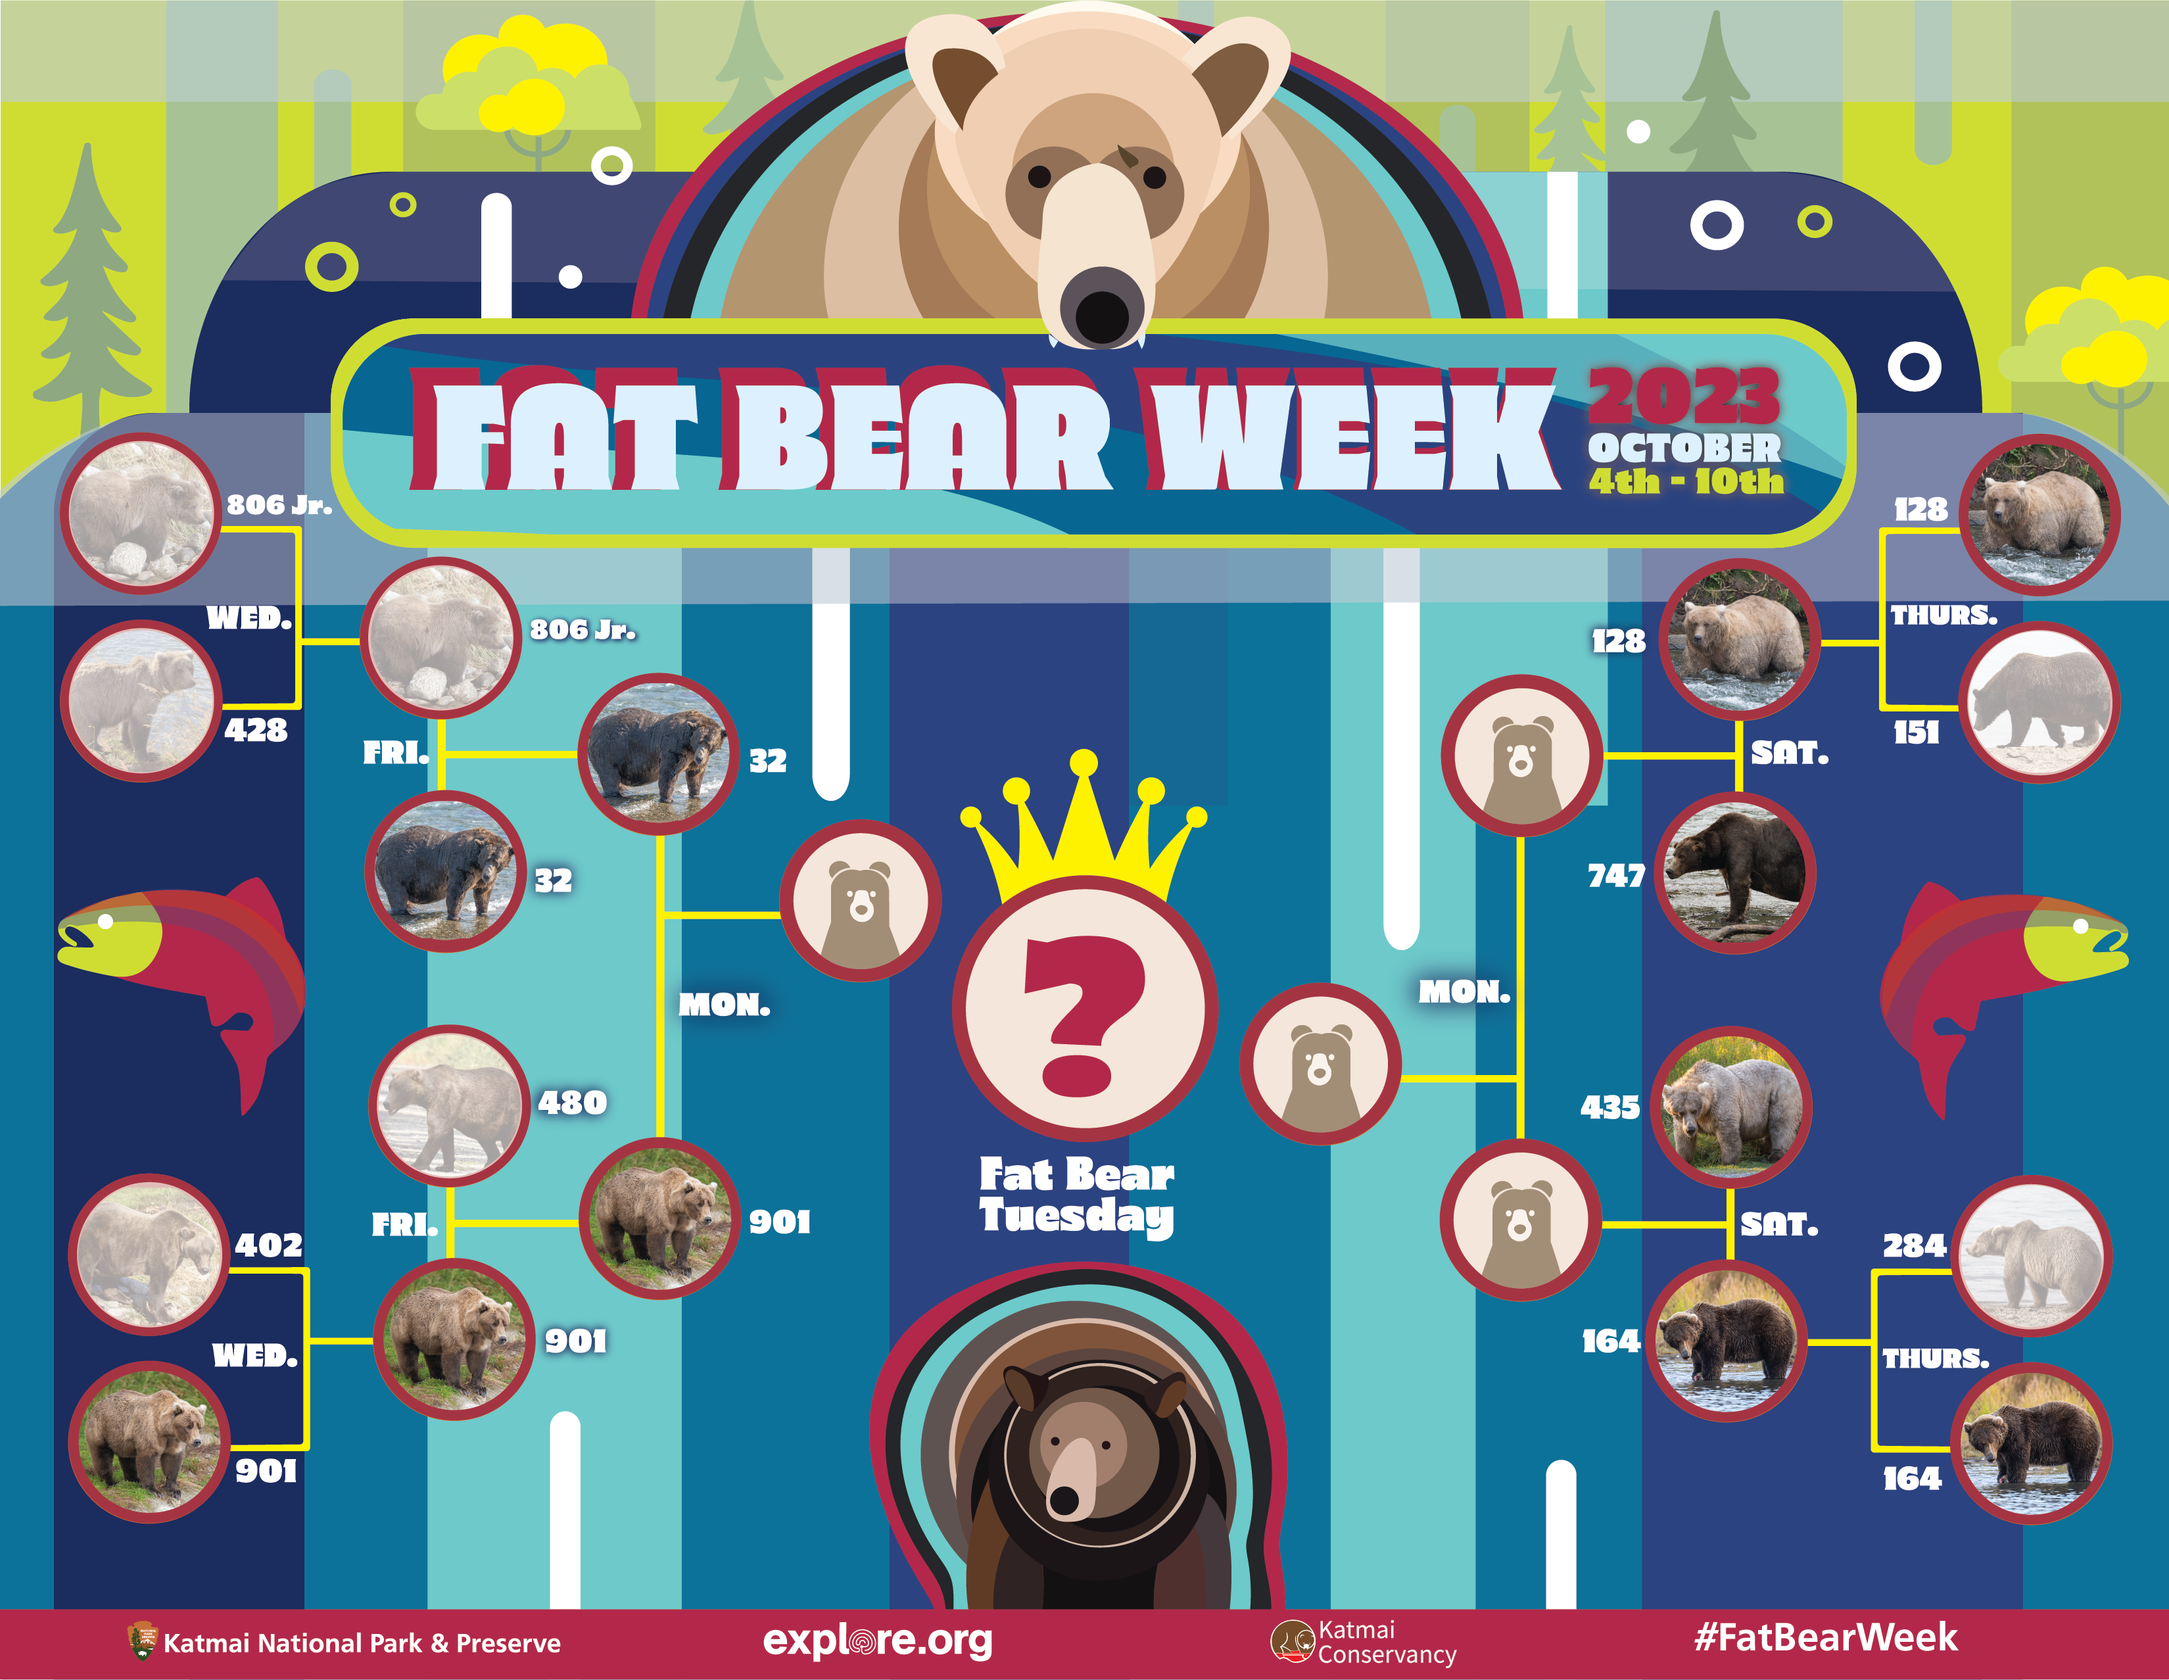
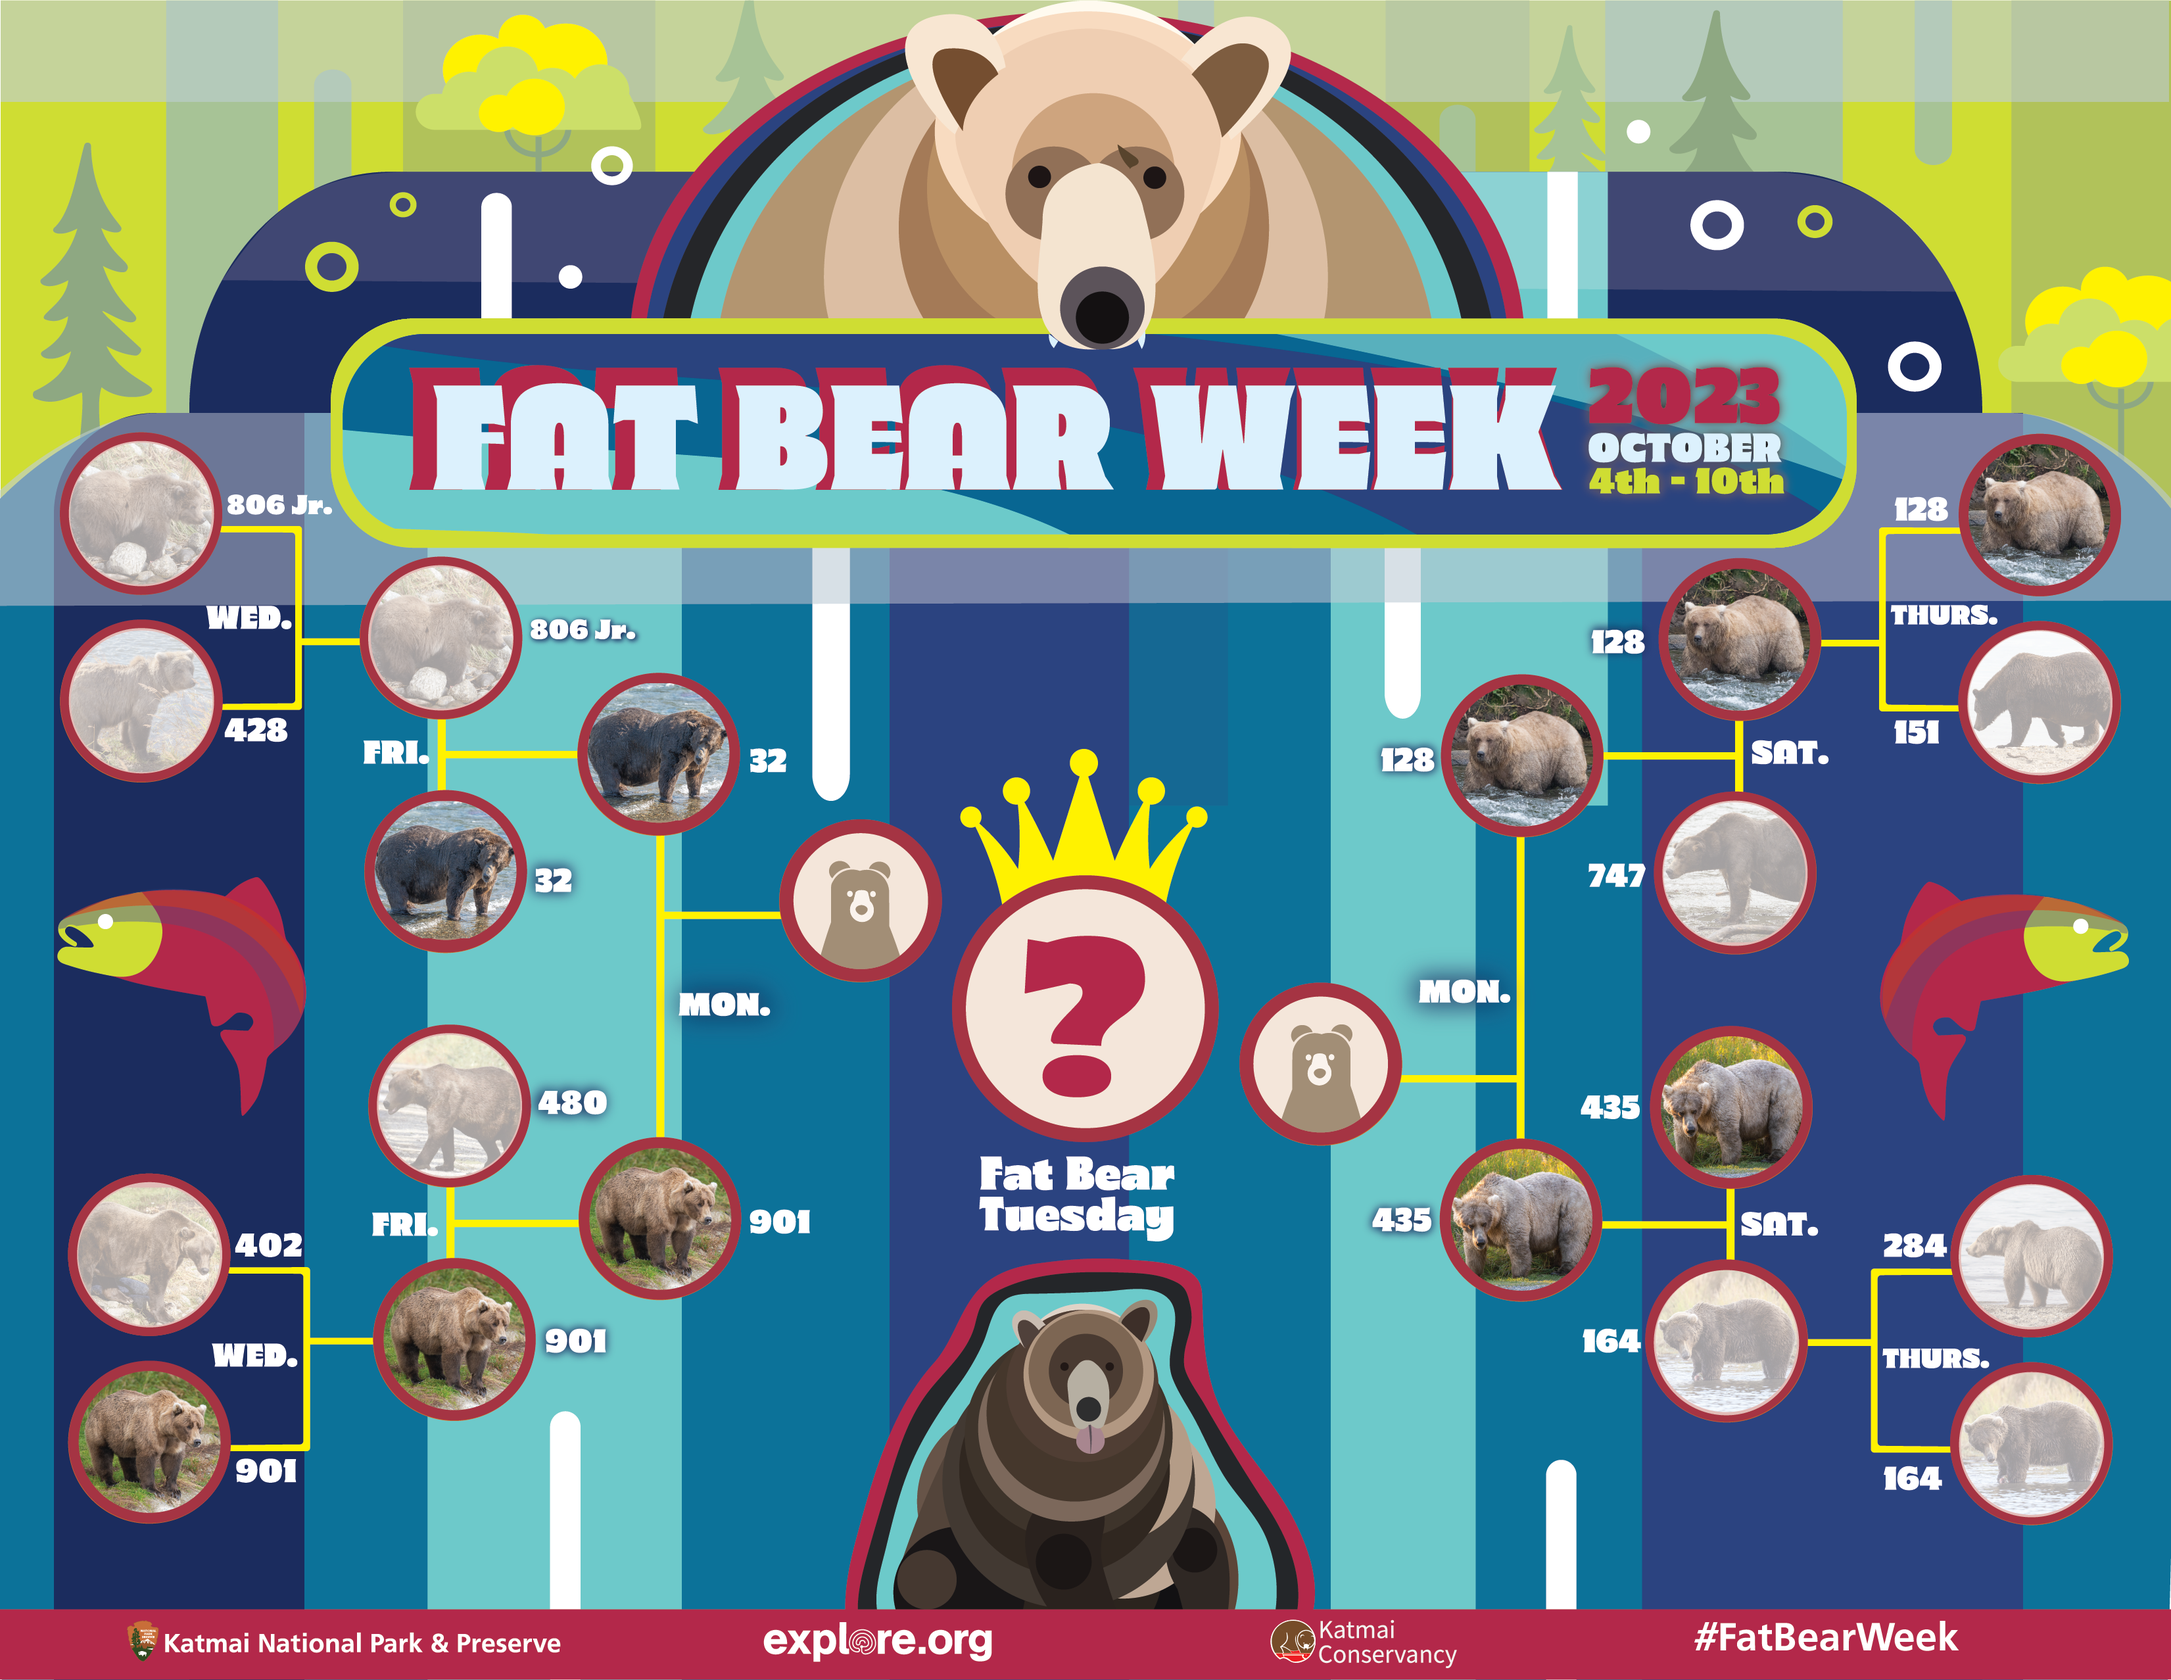
Day 5?

diff --git a/index.html b/index.html
@@ -149,6 +149,7 @@ select {
         <div class="profile" data-name="901" data-link="https://media.explore.org/documents/901-1696281535967.png" style="
           left: 3.1%;
           top: 81.0%;
+          background: #00000069;
         "></div>
         <div class="profile" data-name="32" data-link="https://media.explore.org/documents/32chunk-1696281255060.png"
         data-nickname="Chunk"
@@ -226,6 +227,7 @@ select {
         style="
           left: 76.0%;
           top: 61.0%;
+          background: #00000069;
         "></div><div class="nickname" data-name="435" style="
           left: 72.7%;
           top: 62.2%;
@@ -304,7 +306,7 @@ let bracket = [
       ['1', 2, 3, null,3],
       null,3
     ],
-    null,-1
+    null,4
   ],
   [
     '9',
@@ -320,7 +322,7 @@ let bracket = [
       ['3', 8, 9, null,9],
       null,11
     ],
-    null,-1
+    null,6
   ],
   null,-1
 ];
